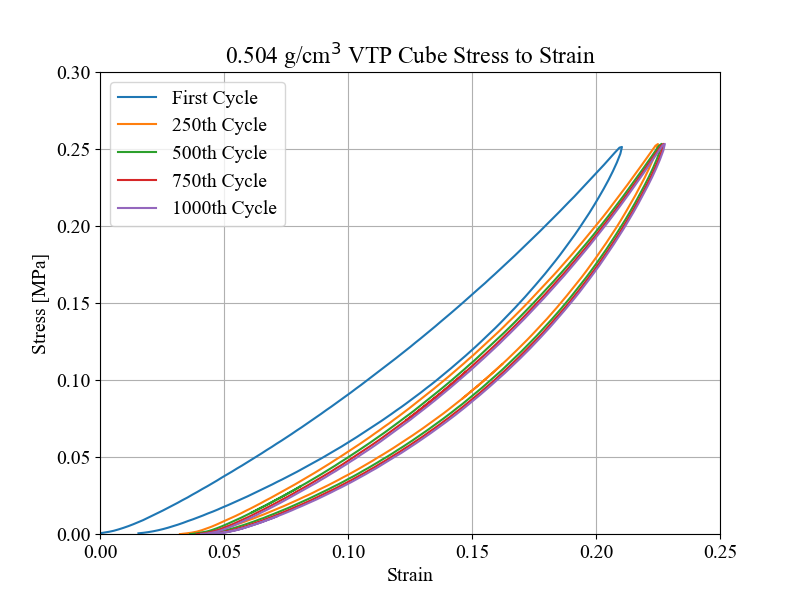
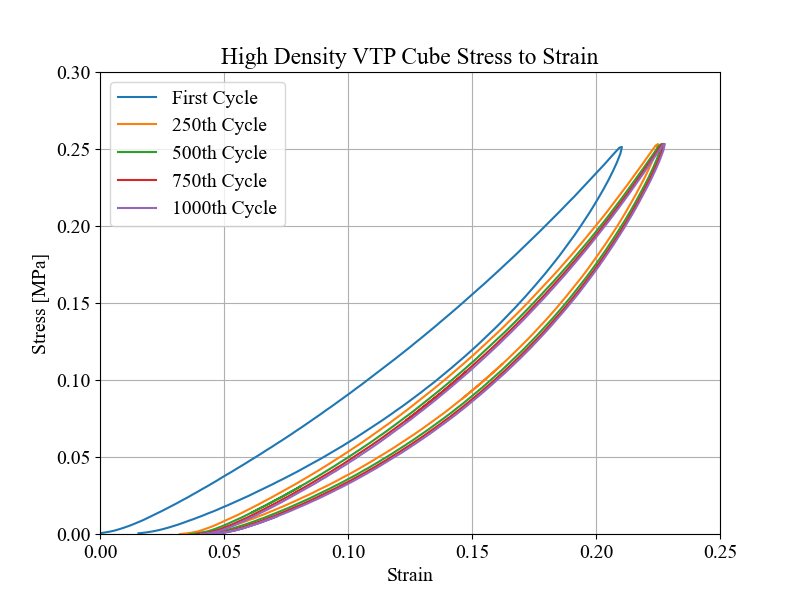
small plot changes

Changed region(s): [[0.2812, 0.06, 0.75, 0.12]]

diff --git a/src/compression.py b/src/compression.py
@@ -432,7 +432,7 @@ if __name__ == '__main__':
     time1, disp1, force1, s_rows = load_file(file_name="../data/5000kPa001SA006SP_1k_fixed.csv")
     strain1, stress1 = get_stress_strain_from_data(displacement=list(disp1), force=list(force1), area=area, start_length=L0)
     strain1 = [i-0.015 for i in strain1]
-    plot_compression_data_at_four_levels(col1=time1, col2=strain1, col3=stress1, plot_title="0.504 g/cm$^3$ VTP Cube Stress to Strain", file_name="./5000kPa001SA006SP_first_1k_cycles.png")
+    plot_compression_data_at_four_levels(col1=time1, col2=strain1, col3=stress1, plot_title="High Density VTP Cube Stress to Strain", file_name="./5000kPa001SA006SP_first_1k_cycles.png")
 
 
     # Figure 4B. Stress Strain Curves for Different Density
@@ -467,7 +467,7 @@ if __name__ == '__main__':
         modulus = np.average(stress1[index_at_strain-60:index_at_strain+60])/np.average(strain1[index_at_strain-60:index_at_strain+60])
         comp_modulus_list.append(modulus)
     # comp_modulus_list = [0.0]
-    plot_SN_curve(cycles_list, comp_modulus_list, heights=sample_height, plot_title="0.04 g/cm3 VTP Foam SN Curve", file_name="./SNcurve_test.png")
+    plot_SN_curve(cycles_list, comp_modulus_list, heights=sample_height, plot_title="Low Density VTP Foam Modulus to Cycles Curve", file_name="./SNcurve_test.png")
 
 
     # Figure 5B. SN Curve for compression of both High and Low Density Foam
